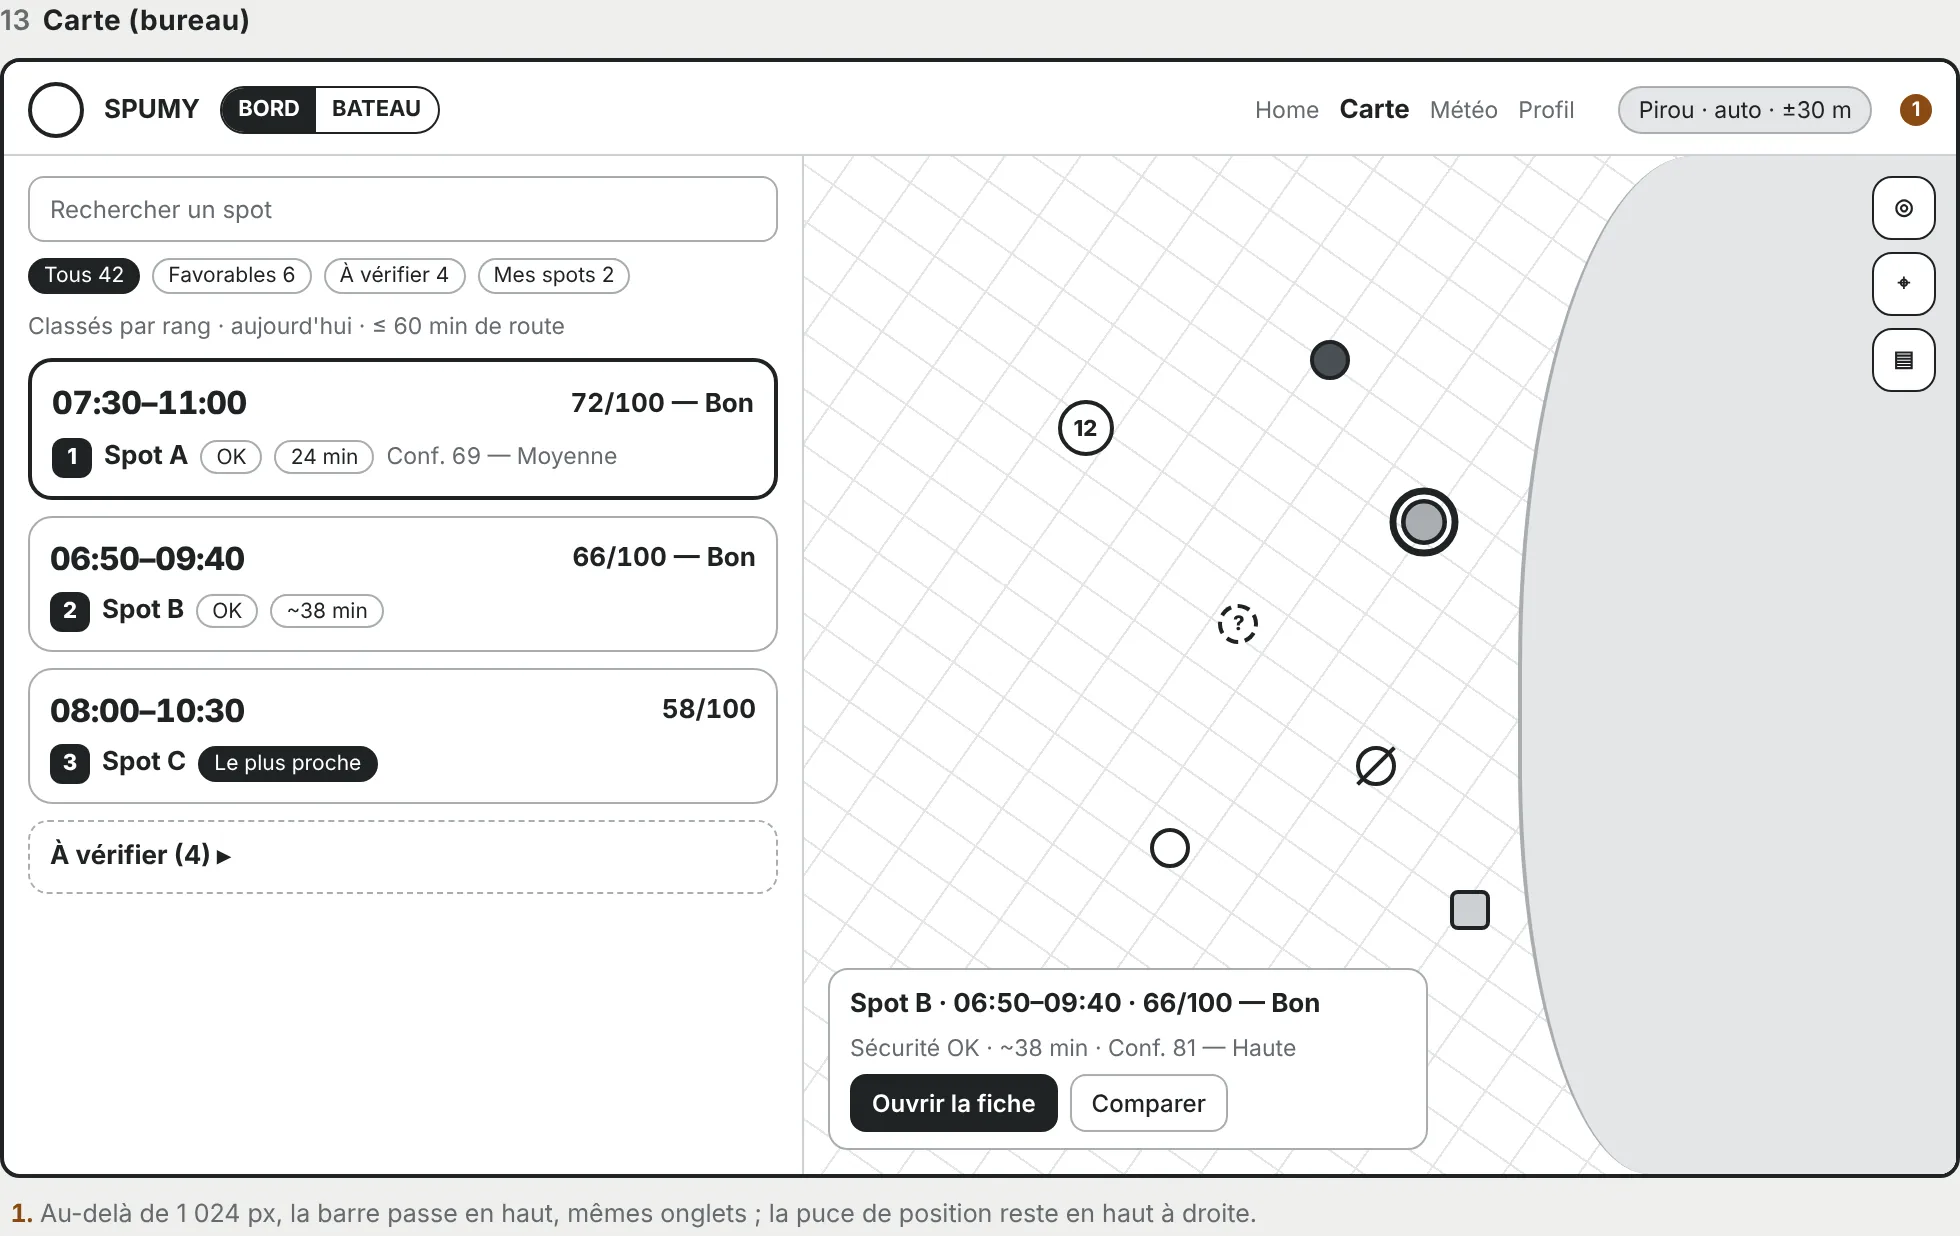
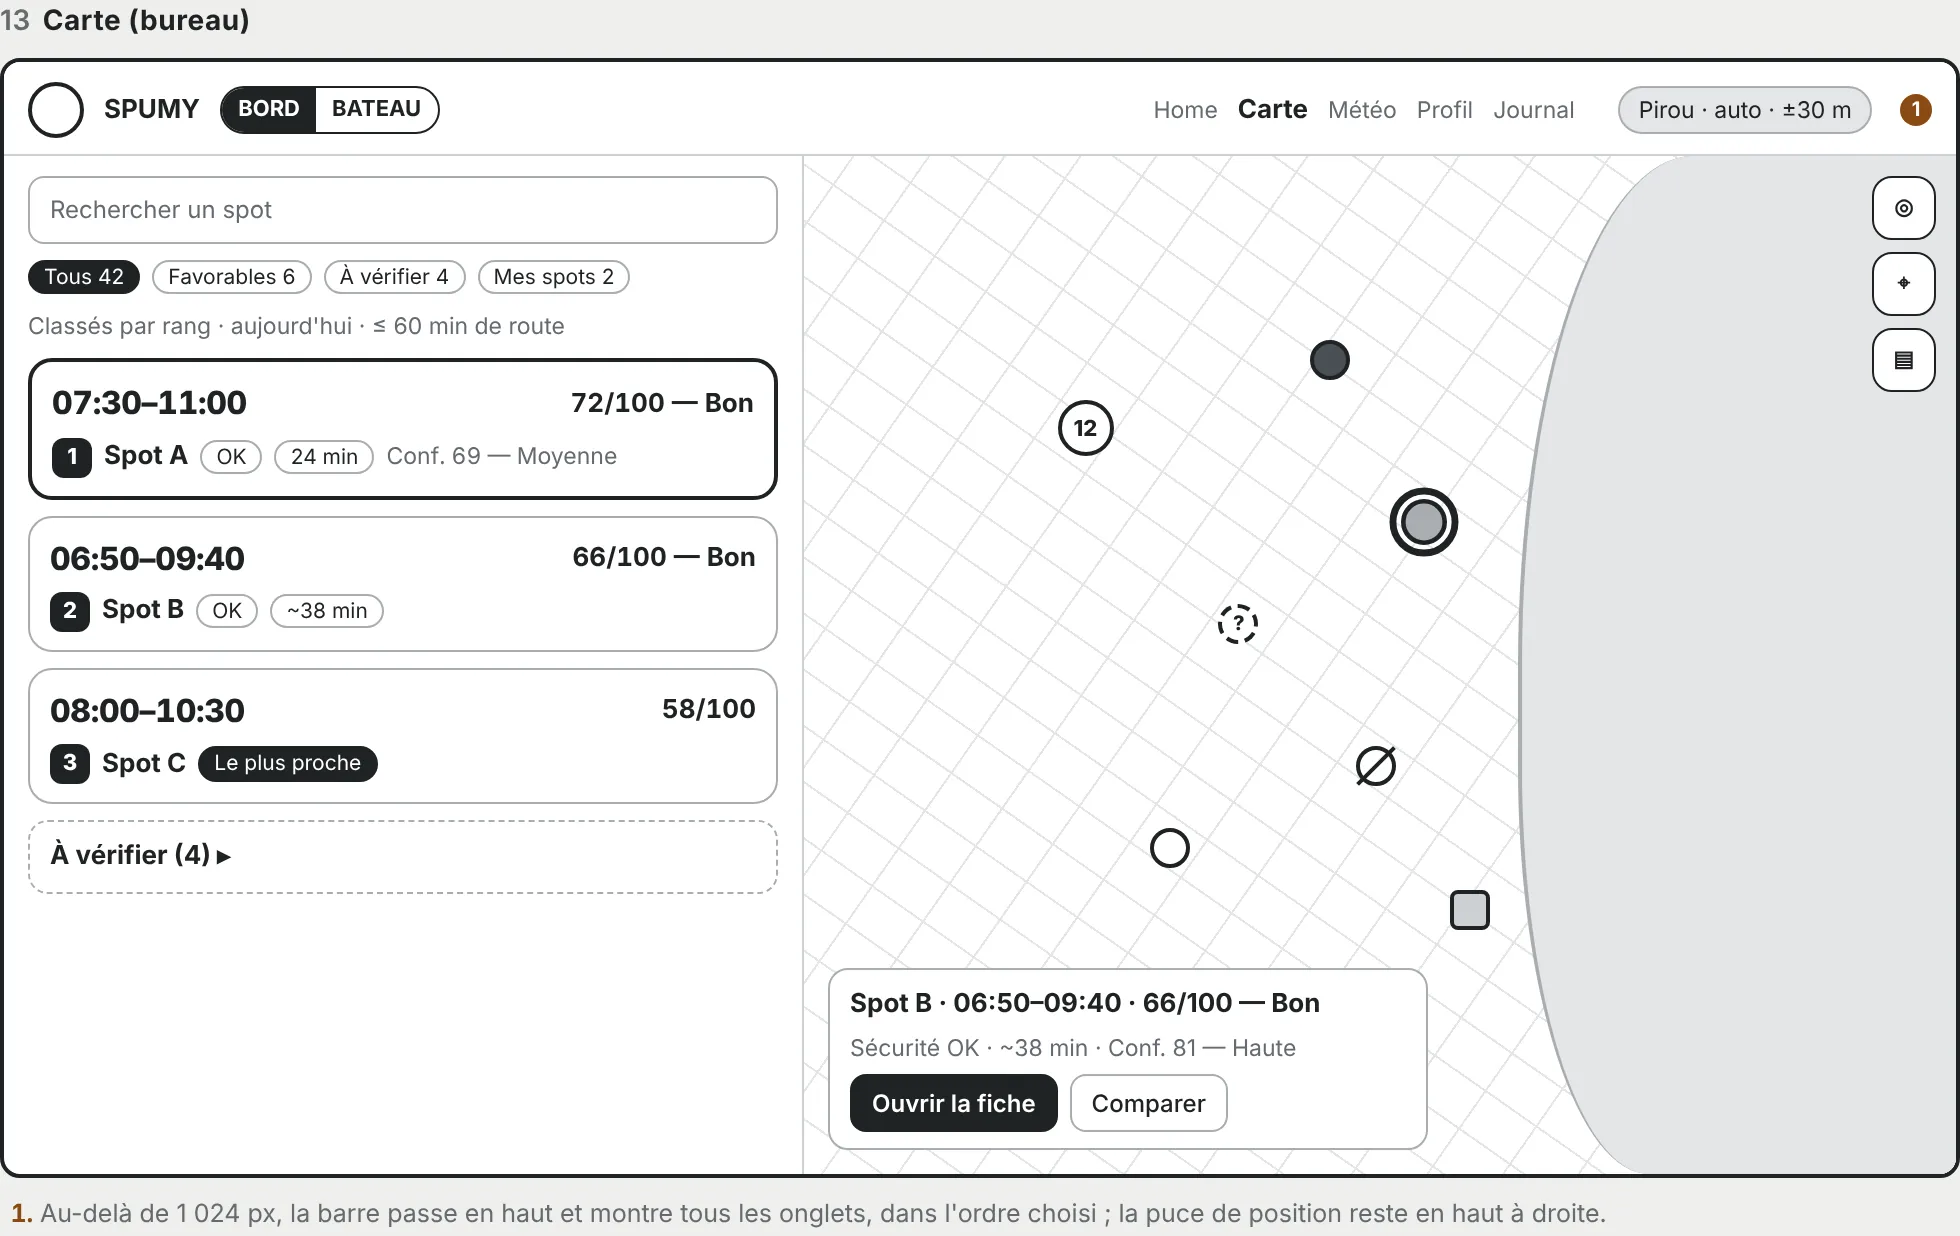
Wireframes : barre défilante (4 onglets visibles, chevron), ordre des onglets dans Profil
Claude-Session: https://claude.ai/code/session_012YoZxq9fP3Y2tP8J77hw9T

diff --git a/docs/design/wireframes/index.html b/docs/design/wireframes/index.html
@@ -79,6 +79,16 @@ header.doc p{margin:4px 0;color:var(--muted)}
 .nav span::before{content:"";width:18px;height:18px;border-radius:5px;border:1.5px solid var(--line)}
 .nav .on{color:var(--ink);font-weight:700}
 .nav .on::before{background:var(--ink);border-color:var(--ink)}
+.nav{overflow:hidden}
+.nav span{flex:0 0 23.5%}
+.nav .peek{opacity:.55}
+.nav .chev{position:absolute;right:0;top:0;bottom:0;width:30px;display:grid;place-items:center;font:800 16px/1 system-ui;color:var(--ink);background:linear-gradient(90deg,transparent,var(--paper) 55%)}
+.nav .chev.l{left:0;right:auto;background:linear-gradient(270deg,transparent,var(--paper) 55%)}
+.order{list-style:none;margin:0;padding:0;display:flex;flex-direction:column;gap:4px}
+.order li{display:flex;align-items:center;gap:8px;border:1px solid var(--soft2);border-radius:8px;padding:4px 8px;font-size:12px}
+.order li b{width:16px;color:var(--muted)}
+.order li i{margin-left:auto;font-style:normal;color:var(--muted)}
+.order li.off{border-style:dashed;color:var(--muted)}
 .swipe{font-size:10px;color:var(--muted);text-align:center;padding:2px 0 0;background:var(--paper)}
 hr.sep{border:0;border-top:1px solid var(--soft2);margin:2px 0;width:100%}
 .card{border:1.5px solid var(--line);border-radius:12px;padding:9px 10px;display:flex;flex-direction:column;gap:5px;min-width:0}
@@ -168,7 +178,7 @@ h2.parc{font-size:17px;margin:0 0 14px}
       <tr><td>« Décision » s'appelle « Home »</td><td>renommé partout</td><td>toutes</td></tr>
       <tr><td>Pas de grande barre « me géolocaliser » ; la puce en haut à droite, manuelle ou automatique</td><td>demande du téléphone au premier lancement ; puce en haut à droite ; modes automatique et manuel dans la feuille de position</td><td>01, 02</td></tr>
       <tr><td>Au centre, une phrase qui résume la pêche probable</td><td>phrase sur la photo de fond de Home, horaires compris</td><td>01, 03, 09</td></tr>
-      <tr><td>Glisser entre les onglets ; 4 onglets ; Météo plutôt que Journal ; barre et photo de fond modifiables dans Profil</td><td>barre par défaut <b>Home · Carte · Météo · Profil</b> ; les deux du milieu au choix ; Journal depuis Home et Profil ; glissement sauf sur les cartes et les courbes</td><td>toutes, 10, 11</td></tr>
+      <tr><td>4 onglets ; Météo plutôt que Journal ; ordre des onglets et photo de fond modifiables dans Profil ; on touche un onglet pour en changer, on fait glisser la barre pour en voir d'autres (précision de 14 h 02)</td><td>barre défilante : 4 onglets visibles, ordre par défaut <b>Home · Carte · Météo · Profil · Journal</b> ; ordre modifiable dans Profil ; chevron et fondu quand d'autres onglets sont hors champ</td><td>01, 10, 11, 13</td></tr>
       <tr><td>Feuille de position : section sous le point 2 incomprise ; la ville dans le point 2</td><td>le champ montre le lieu actuel ; les propositions n'apparaissent que pendant la frappe</td><td>02</td></tr>
       <tr><td>Home BORD : on voit mal les horaires</td><td>horaires en tête de chaque carte, en grand ; frise du jour</td><td>03, 04</td></tr>
       <tr><td>Fiche : courbe de marée avec les heures favorables coloriées</td><td>courbe du jour, heures favorables coloriées, nuit, « maintenant », indicateurs du jour</td><td>06</td></tr>
@@ -196,14 +206,14 @@ h2.parc{font-size:17px;margin:0 0 14px}
     </div>
     <div class="overlay"></div>
     <div class="osdlg"><span class="h">« SPUMY » souhaite utiliser votre position</span><span class="s">Pour calculer les spots et les temps de route autour de vous. Elle reste sur l'appareil.<i class="n">3</i></span><div class="row"><span class="btn ghost grow">Refuser</span><span class="btn pri grow">Autoriser</span></div><span class="s">(fenêtre du système)</span></div>
-    <div class="swipe">← glisser pour changer d'onglet →<i class="n">4</i></div>
-    <div class="nav"><span class="on">Home</span><span>Carte</span><span>Météo</span><span>Profil</span></div>
+    <div class="swipe">glisser la barre pour voir les autres onglets →<i class="n">4</i></div>
+    <div class="nav"><span class="on">Home</span><span>Carte</span><span>Météo</span><span>Profil</span><span class="peek">Journal</span><b class="chev">›</b></div>
   </div>
   <ol class="notes">
     <li>Puce en haut à droite : mode automatique par défaut. Refus : « Choisir une position », mise en évidence.</li>
     <li>Pas de grand bouton au centre : la phrase dit quoi faire, la puce le fait.</li>
     <li>Demande du système, une seule fois ; pas de géolocalisation par adresse IP (POS-03).</li>
-    <li>Glisser passe d'un onglet à l'autre, sauf sur une carte ou une courbe. Barre par défaut : Home · Carte · Météo · Profil.</li>
+    <li>On touche un onglet pour en changer. On fait glisser la barre pour faire apparaître les autres (Journal…) ; le chevron et le fondu montrent qu'il y en a. Ordre par défaut : Home · Carte · Météo · Profil · Journal, modifiable dans Profil.</li>
   </ol>
 </section>
 
@@ -270,7 +280,7 @@ h2.parc{font-size:17px;margin:0 0 14px}
       <div class="box dashed"><div class="row between"><span class="h">À vérifier (4)</span><span class="s">Afficher ▸</span></div></div>
       <div class="row"><span class="btn ghost grow">Comparer</span><span class="btn grow">+ Noter une sortie<i class="n">6</i></span></div>
     </div>
-    <div class="nav"><span class="on">Home</span><span>Carte</span><span>Météo</span><span>Profil</span></div>
+    <div class="nav"><span class="on">Home</span><span>Carte</span><span>Météo</span><span>Profil</span><span class="peek">Journal</span><b class="chev">›</b></div>
   </div>
   <ol class="notes">
     <li>Photo de fond automatique selon la lumière, le ciel et la mer, ou choisie dans Profil.</li>
@@ -298,7 +308,7 @@ h2.parc{font-size:17px;margin:0 0 14px}
       <div class="card"><div class="row between"><span class="time">07:40–10:00</span><span class="pill">ex æquo</span></div><div class="row"><span class="rank">3</span><span class="h">Spot G</span><span class="h mono">61/100 — Bon</span></div></div>
       <div class="btn ghost">+ 3 autres à égalité<i class="n">3</i></div>
     </div>
-    <div class="nav"><span class="on">Home</span><span>Carte</span><span>Météo</span><span>Profil</span></div>
+    <div class="nav"><span class="on">Home</span><span>Carte</span><span>Météo</span><span>Profil</span><span class="peek">Journal</span><b class="chev">›</b></div>
   </div>
   <ol class="notes">
     <li>Les places vides ne sont jamais comblées par un spot à vérifier, dangereux ou bloqué.</li>
@@ -338,7 +348,7 @@ h2.parc{font-size:17px;margin:0 0 14px}
       <div class="row"><span class="pill">Sécurité : OK</span><span class="pill">~38 min</span><span class="s mono">Confiance 81 — Haute</span></div>
       <div class="row"><span class="btn pri grow">Ouvrir la fiche</span><span class="btn ghost">Liste ▴<i class="n">4</i></span></div>
     </div>
-    <div class="nav"><span>Home</span><span class="on">Carte</span><span>Météo</span><span>Profil</span></div>
+    <div class="nav"><span>Home</span><span class="on">Carte</span><span>Météo</span><span>Profil</span><span class="peek">Journal</span><b class="chev">›</b></div>
   </div>
   <ol class="notes">
     <li>Compteurs exacts. « Favorables » = seuil validé + sécurité et vérification ; seuil À DÉCIDER.</li>
@@ -421,7 +431,7 @@ h2.parc{font-size:17px;margin:0 0 14px}
       <div class="box"><span class="h">+15 min de route (+13 km) pour +14 points de Favorabilité<i class="n">2</i></span><span class="s">Courant portant sur le platier (Spot A) ; mais vent de face sur A, abrité sur C.</span></div>
       <div class="box dashed"><span class="h">Variante : avantage non établi</span><span class="s">La météo de Spot C a 5 h : les deux scores ne sont pas comparables.</span></div>
     </div>
-    <div class="nav"><span class="on">Home</span><span>Carte</span><span>Météo</span><span>Profil</span></div>
+    <div class="nav"><span class="on">Home</span><span>Carte</span><span>Météo</span><span>Profil</span><span class="peek">Journal</span><b class="chev">›</b></div>
   </div>
   <ol class="notes">
     <li>Vent sur chaque spot pendant sa fenêtre : force, rafales, direction, exposition (jalon 1).</li>
@@ -450,7 +460,7 @@ h2.parc{font-size:17px;margin:0 0 14px}
       </div>
       <div class="btn pri">Voir si je peux sortir</div>
     </div>
-    <div class="nav"><span class="on">Home</span><span>Carte</span><span>Météo</span><span>Profil</span></div>
+    <div class="nav"><span class="on">Home</span><span>Carte</span><span>Météo</span><span>Profil</span><span class="peek">Journal</span><b class="chev">›</b></div>
   </div>
   <ol class="notes">
     <li>Sans bateau enregistré, la saisie est ouverte d'emblée. Aucun verdict sans l'un ou l'autre.</li>
@@ -479,7 +489,7 @@ h2.parc{font-size:17px;margin:0 0 14px}
       <div class="box line"><span class="s">Gilet · VHF canal 16 · BMS · itinéraire laissé à un proche</span></div>
       <div class="box dashed"><span class="h">Carte marine : épaves, hauts-fonds, balisage<i class="n">2</i></span><span class="s">Bonus à étudier : sources et licences à vérifier. Ne remplacerait jamais une carte marine officielle.</span></div>
     </div>
-    <div class="nav"><span class="on">Home</span><span>Carte</span><span>Météo</span><span>Profil</span></div>
+    <div class="nav"><span class="on">Home</span><span>Carte</span><span>Météo</span><span>Profil</span><span class="peek">Journal</span><b class="chev">›</b></div>
   </div>
   <ol class="notes">
     <li>Sécurité d'abord, jugée sur le pire moment du créneau, avec le bateau choisi.</li>
@@ -524,7 +534,7 @@ h2.parc{font-size:17px;margin:0 0 14px}
       </div>
       <div class="box line" style="height:46px"><span class="s">Courbe du jour : vent et rafales, heure par heure<i class="n">4</i></span></div>
     </div>
-    <div class="nav"><span>Home</span><span>Carte</span><span class="on">Météo</span><span>Profil</span></div>
+    <div class="nav"><span>Home</span><span>Carte</span><span class="on">Météo</span><span>Profil</span><span class="peek">Journal</span><b class="chev">›</b></div>
   </div>
   <ol class="notes">
     <li>Flèches sur une grille de points de prévision : sens du vent, force (Beaufort) et rafales (km/h) écrites. À partir de force 6, signe d'avertissement. Couleur neutre, jamais celle des paliers.</li>
@@ -558,7 +568,7 @@ h2.parc{font-size:17px;margin:0 0 14px}
       <div class="row between"><span class="h">Créneau 06:30–13:00</span><span class="s">Open-Meteo Marine, 06:00</span></div>
       <div class="box line" style="height:46px"><span class="s">Courbes : hauteur et période des vagues ; vent et rafales<i class="n">3</i></span></div>
     </div>
-    <div class="nav"><span>Home</span><span>Carte</span><span class="on">Météo</span><span>Profil</span></div>
+    <div class="nav"><span>Home</span><span>Carte</span><span class="on">Météo</span><span>Profil</span><span class="peek">Journal</span><b class="chev">›</b></div>
   </div>
   <ol class="notes">
     <li>Bascule Vent | Mer, en BATEAU seulement.</li>
@@ -569,7 +579,7 @@ h2.parc{font-size:17px;margin:0 0 14px}
 
 <!-- 10 -->
 <section class="wf" id="w10" data-file="10-journal">
-  <h2><b>10</b>Journal (barre personnalisée)<span class="new">jalon 1</span></h2>
+  <h2><b>10</b>Journal (barre défilée)<span class="new">jalon 1</span></h2>
   <div class="phone">
     <div class="top"><div class="seg"><span class="on">BORD</span><span>BATEAU</span></div><span class="h" style="margin-left:auto">Journal</span><span class="s">⋯</span></div>
     <div class="scroll">
@@ -582,10 +592,10 @@ h2.parc{font-size:17px;margin:0 0 14px}
         <li class="card"><div class="row between"><span class="h">Mar. 3 nov. · Spot D</span><span class="pill warn">Incomplète</span></div></li>
       </ul>
     </div>
-    <div class="nav"><span>Home</span><span>Carte</span><span class="on">Journal</span><span>Profil</span><i class="n" style="position:absolute;right:8px;top:-8px">1</i></div>
+    <div class="nav"><b class="chev l">‹</b><span class="peek" style="flex-basis:6%"></span><span>Carte</span><span>Météo</span><span>Profil</span><span class="on">Journal</span><i class="n" style="position:absolute;right:8px;top:-8px">1</i></div>
   </div>
   <ol class="notes">
-    <li>Exemple d'une barre modifiée dans Profil : Journal à la place de Météo. Par défaut, le Journal s'ouvre depuis Home (« + Noter une sortie ») et depuis Profil.</li>
+    <li>La barre a défilé : Journal, 5ᵉ onglet, est apparu et Home est sorti à gauche (chevron). Le Journal s'ouvre aussi depuis Home (« + Noter une sortie ») et depuis Profil.</li>
   </ol>
 </section>
 
@@ -600,8 +610,8 @@ h2.parc{font-size:17px;margin:0 0 14px}
       <div class="box line"><div class="row between"><span class="h">Mes spots et mes marques</span><span class="s">2 ▸</span></div></div>
       <div class="box line"><div class="row between"><span class="h">Mes bateaux</span><span class="s">semi-rigide 6 m (par défaut) ▸</span></div></div>
       <div class="box line"><span class="h">Affichage<i class="n">1</i></span>
-        <span class="s">Onglets de la barre :</span>
-        <div class="row"><span class="pill dark">Home</span><span class="pill">Carte ▾</span><span class="pill">Météo ▾</span><span class="pill dark">Profil</span></div>
+        <span class="s">Ordre des onglets (les 4 premiers sont visibles sans faire défiler) :</span>
+        <ol class="order"><li><b>1</b>Home<i>≡ ▲▼</i></li><li><b>2</b>Carte<i>≡ ▲▼</i></li><li><b>3</b>Météo<i>≡ ▲▼</i></li><li><b>4</b>Profil<i>≡ ▲▼</i></li><li class="off"><b>5</b>Journal · en faisant défiler<i>≡ ▲▼</i></li></ol>
         <span class="s">Photo de fond de Home :<i class="n">2</i></span>
         <div class="row"><span class="pill dark">Automatique</span><span class="pill">Choisir une photo ▸</span></div>
         <span class="s">Thème · mode terrain</span>
@@ -609,10 +619,10 @@ h2.parc{font-size:17px;margin:0 0 14px}
       <div class="box line"><span class="h">Mes données</span><span class="s">Sauvegarde · transfert · export du journal (option A) · tout effacer</span></div>
       <div class="row" style="gap:8px"><div style="width:40px;height:40px;border-radius:50%;border:2px solid var(--ink);display:grid;place-items:center;font-size:8px">logo</div><span class="s">Aide et règles · à propos · sources des données</span></div>
     </div>
-    <div class="nav"><span>Home</span><span>Carte</span><span>Météo</span><span class="on">Profil</span></div>
+    <div class="nav"><span>Home</span><span>Carte</span><span>Météo</span><span class="on">Profil</span><span class="peek">Journal</span><b class="chev">›</b></div>
   </div>
   <ol class="notes">
-    <li>Les deux onglets du milieu se choisissent parmi Carte, Météo, Journal (et Matériel plus tard) ; Home et Profil restent fixes.</li>
+    <li>L'ordre se change en faisant glisser les poignées, ou avec les flèches (clavier et lecteur d'écran). Matériel s'ajoutera à la liste quand l'inventaire existera.</li>
     <li>Automatique : la photo suit la lumière, le ciel et la mer du moment. Toujours marquée « Illustration ».</li>
   </ol>
 </section>
@@ -633,7 +643,7 @@ h2.parc{font-size:17px;margin:0 0 14px}
       <div class="box"><span class="h">Position refusée</span><span class="s">Touche la position en haut à droite pour saisir un lieu.</span></div>
       <div class="box"><span class="h">Carte du vent indisponible hors ligne</span><span class="s">Dernière prévision : 06:00 (il y a 3 h)</span></div>
     </div>
-    <div class="nav"><span class="on">Home</span><span>Carte</span><span>Météo</span><span>Profil</span></div>
+    <div class="nav"><span class="on">Home</span><span>Carte</span><span>Météo</span><span>Profil</span><span class="peek">Journal</span><b class="chev">›</b></div>
   </div>
   <ol class="notes">
     <li>Pas de liste vide muette ; changer de position se fait par la puce.</li>
@@ -645,7 +655,7 @@ h2.parc{font-size:17px;margin:0 0 14px}
   <h2><b>13</b>Carte (bureau)</h2>
   <div class="phone">
     <div class="deskwrap">
-      <div class="top" style="gap:10px"><div style="width:28px;height:28px;border-radius:50%;border:2px solid var(--ink)"></div><span class="h">SPUMY</span><div class="seg"><span class="on">BORD</span><span>BATEAU</span></div><span class="grow"></span><span class="s">Home</span><span class="h">Carte</span><span class="s">Météo</span><span class="s">Profil</span><span class="chip solid" style="margin-left:12px">Pirou · auto · ±30 m</span><i class="n">1</i></div>
+      <div class="top" style="gap:10px"><div style="width:28px;height:28px;border-radius:50%;border:2px solid var(--ink)"></div><span class="h">SPUMY</span><div class="seg"><span class="on">BORD</span><span>BATEAU</span></div><span class="grow"></span><span class="s">Home</span><span class="h">Carte</span><span class="s">Météo</span><span class="s">Profil</span><span class="s">Journal</span><span class="chip solid" style="margin-left:12px">Pirou · auto · ±30 m</span><i class="n">1</i></div>
       <div class="desk">
         <div class="side">
           <div class="field">Rechercher un spot</div>
@@ -666,7 +676,7 @@ h2.parc{font-size:17px;margin:0 0 14px}
     </div>
   </div>
   <ol class="notes">
-    <li>Au-delà de 1 024 px, la barre passe en haut, mêmes onglets ; la puce de position reste en haut à droite.</li>
+    <li>Au-delà de 1 024 px, la barre passe en haut et montre tous les onglets, dans l'ordre choisi ; la puce de position reste en haut à droite.</li>
   </ol>
 </section>
 
